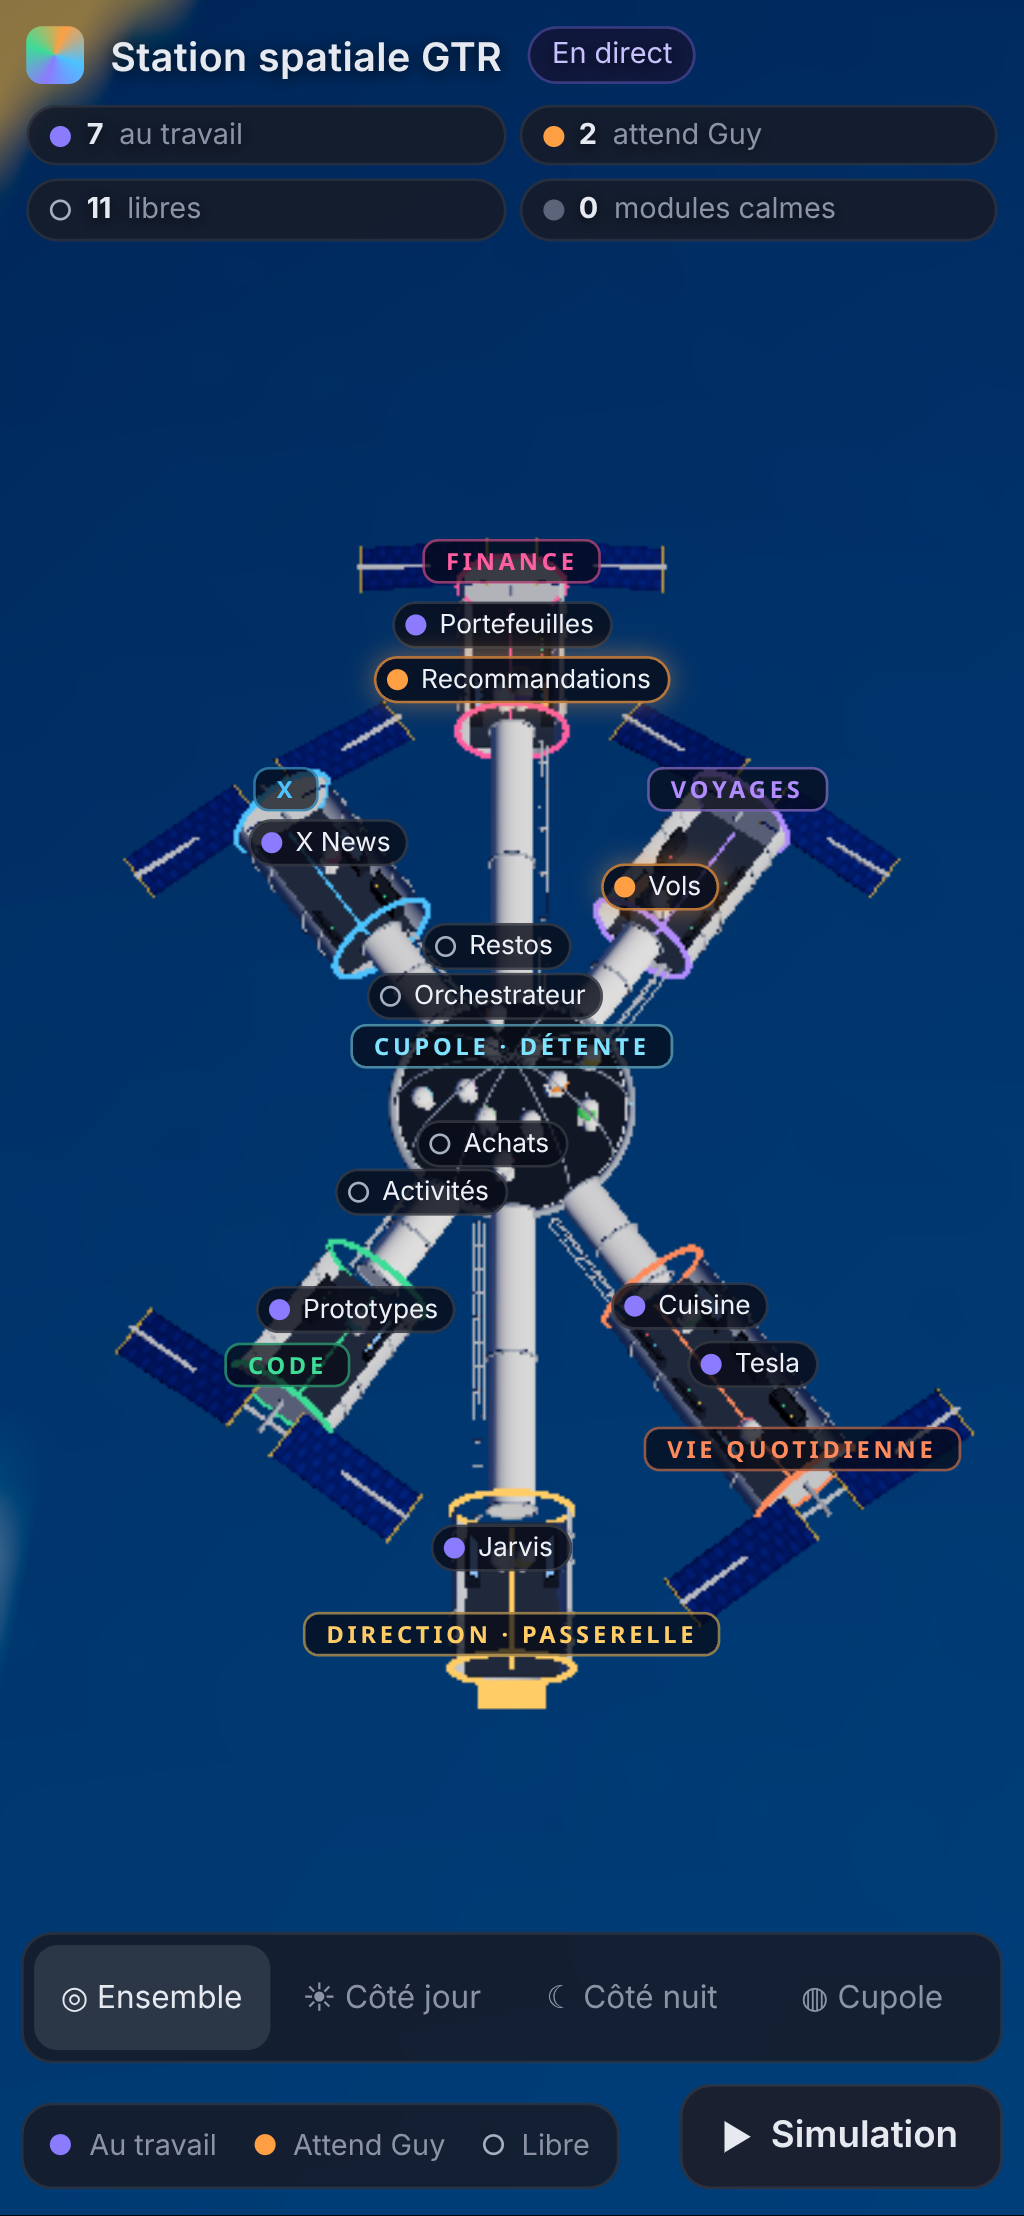
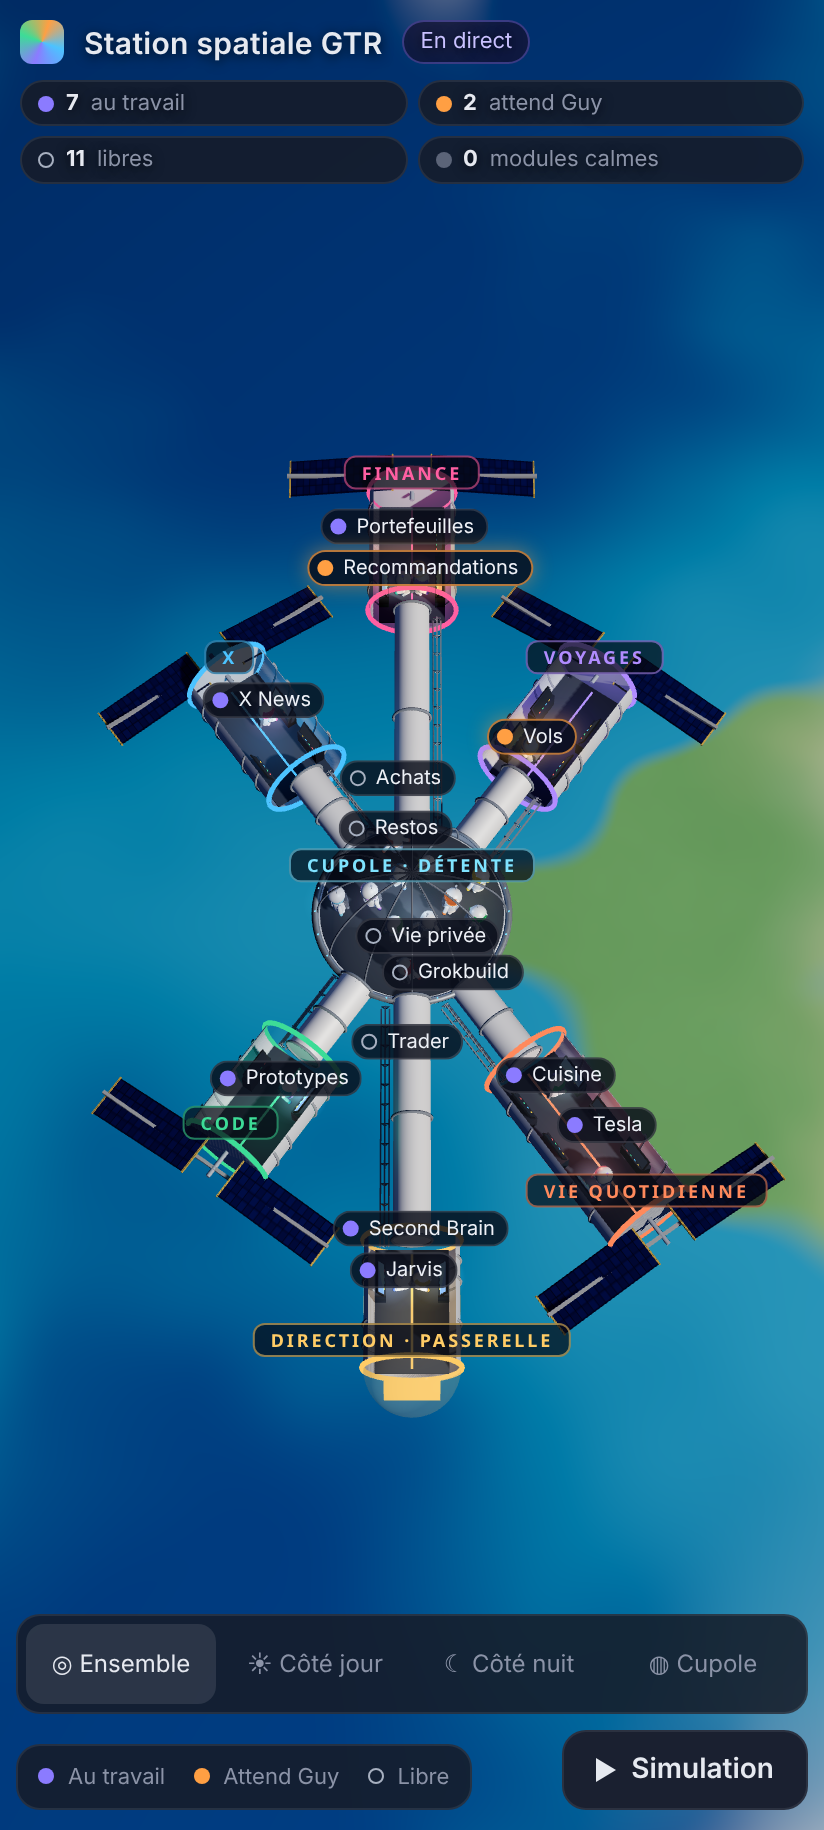
Version complète par défaut sur cell, lite après perte de contexte, repli 2D sans WebGL

diff --git a/secours2d.js b/secours2d.js
@@ -1,0 +1,152 @@
+// Vue 2D de secours (SVG) quand WebGL n'est pas disponible. Mêmes données, compteurs, panneaux et simulation.
+const INTERVALLE_MS = 60_000;
+const COUL_ETAT = { occupe: '#8b7bff', attend: '#ff9f43', libre: '#a7b0c0' };
+const NOM_ETAT = { occupe: 'Au travail', attend: 'Attend Guy', libre: 'Libre' };
+const COUL_EQUIPE = ['#ffcc66', '#3ddc97', '#4cc3ff', '#ff5fa2', '#b18cff', '#ff8a5c', '#e0e86b', '#5eead4'];
+const PALETTE = ['#4f7dff', '#ffd23f', '#ff7a2f', '#2ec4d6', '#34c759', '#c7ccd8', '#ff5fa2', '#9b6bff', '#00c2a8', '#ff4d4d', '#7bd389', '#f5a524', '#5ac8fa', '#c084fc', '#e2725b', '#4ade80', '#60a5fa', '#facc15', '#fb7185', '#a3e635', '#22d3ee', '#f97316'];
+const TACHES = ['Recherche', 'Veille', 'Analyse', 'Rédaction', 'Mise à jour'];
+const fmtHeure = new Intl.DateTimeFormat('fr-CA', { timeZone: 'America/Toronto', hour: '2-digit', minute: '2-digit', hourCycle: 'h23' });
+const NS = 'http://www.w3.org/2000/svg';
+const $ = (id) => document.getElementById(id);
+const scene = $('scene'), vue = document.querySelector('.vue');
+document.documentElement.dataset.mode = '2d';
+
+// Message (pas d'erreur bloquante)
+const avis = document.createElement('p'); avis.className = 'avis avis-2d';
+avis.textContent = '3D (WebGL) indisponible : Chrome l’a peut-être désactivée. Redémarrez Chrome ou essayez Edge. Vue 2D en attendant.';
+vue.append(avis);
+document.querySelectorAll('.vues button').forEach((b) => { b.disabled = true; b.title = 'Disponible avec la 3D'; });
+
+const svg = document.createElementNS(NS, 'svg'); svg.classList.add('plan2d'); svg.setAttribute('role', 'img');
+svg.setAttribute('aria-label', 'Plan 2D de la station : modules d’équipe autour de la cupole');
+scene.append(svg);
+
+const segments = (nom) => nom.split(/\s[·–-]\s/).map((x) => x.trim()).filter(Boolean);
+const nomCourt = (b, tous) => { if (b.court) return b.court; const s = segments(b.nom); return tous.filter((o) => segments(o.nom)[0] === s[0]).length > 1 && s[1] ? s[1] : s[0] || b.id; };
+const el = (tag, attrs = {}, parent) => { const e = document.createElementNS(NS, tag); for (const [k, v] of Object.entries(attrs)) e.setAttribute(k, v); parent && parent.append(e); return e; };
+
+let donnees = null, sim = null, ficheId = null;
+const activite = [];
+const etatDe = (b) => (b.etat in COUL_ETAT ? b.etat : 'libre');
+
+function dessiner() {
+  if (!donnees) return;
+  const bots = donnees.bots.filter((b) => b && b.id);
+  const portrait = scene.clientWidth < scene.clientHeight;
+  const W = portrait ? 400 : 800, H = portrait ? 560 : 470, cx = W / 2, cy = H / 2;
+  svg.setAttribute('viewBox', `0 0 ${W} ${H}`); svg.replaceChildren();
+  const equipes = [];
+  for (const b of bots) { const n = b.equipe || 'Module'; let e = equipes.find((x) => x.nom === n); if (!e) { e = { nom: n, bots: [], coul: COUL_EQUIPE[equipes.length % COUL_EQUIPE.length] }; equipes.push(e); } e.bots.push(b); }
+  const iDir = equipes.findIndex((e) => /^direction$/i.test(e.nom)); if (iDir > 0) equipes.unshift(...equipes.splice(iDir, 1));
+  const rx = portrait ? 118 : 285, ry = portrait ? 205 : 160, RH = portrait ? 58 : 66;
+  // étoiles
+  for (let i = 0; i < 70; i++) el('circle', { cx: (i * 97) % W, cy: (i * 61) % H, r: i % 7 ? 0.7 : 1.2, fill: '#fff', opacity: 0.25 + (i % 4) * 0.12 }, svg);
+  const tubes = el('g', {}, svg), mods = el('g', {}, svg);
+  const couleurs = new Map(bots.map((b, i) => [b.id, b.couleur || PALETTE[i % PALETTE.length]]));
+  equipes.forEach((e, i) => {
+    const a = Math.PI / 2 + (i / equipes.length) * Math.PI * 2;
+    const x = cx + Math.cos(a) * rx, y = cy + Math.sin(a) * ry;
+    el('line', { x1: cx, y1: cy, x2: x, y2: y, stroke: '#9aa6b8', 'stroke-width': 9, 'stroke-linecap': 'round', opacity: 0.55 }, tubes);
+    const actifs = e.bots.filter((b) => etatDe(b) !== 'libre');
+    const w = portrait ? 156 : 180, h = 30 + Math.max(1, actifs.length) * 17;
+    const g = el('g', { transform: `translate(${x - w / 2},${y - h / 2})` }, mods);
+    el('rect', { width: w, height: h, rx: 12, fill: '#141b2b', stroke: e.coul, 'stroke-width': 2 }, g);
+    el('rect', { x: -10, y: h / 2 - 9, width: 10, height: 18, rx: 3, fill: '#2a3550' }, g);
+    el('rect', { x: w, y: h / 2 - 9, width: 10, height: 18, rx: 3, fill: '#2a3550' }, g);
+    const t = el('text', { x: 10, y: 18, fill: e.coul, 'font-size': 10.5, 'font-weight': 700, 'letter-spacing': '1.5' }, g); t.textContent = e.nom.toUpperCase();
+    if (!actifs.length) { const v = el('text', { x: 10, y: 37, fill: '#8b93a7', 'font-size': 11 }, g); v.textContent = 'Module calme'; }
+    actifs.forEach((b, k) => {
+      const st = etatDe(b), yy = 34 + k * 17;
+      const r = el('g', { class: 'bot2d', 'data-id': b.id, tabindex: 0, role: 'button' }, g);
+      if (st === 'attend') el('circle', { cx: 16, cy: yy, r: 5, fill: 'none', stroke: COUL_ETAT.attend, class: 'pulse' }, r);
+      el('circle', { cx: 16, cy: yy, r: 5, fill: couleurs.get(b.id), stroke: COUL_ETAT[st], 'stroke-width': 2 }, r);
+      const n = el('text', { x: 27, y: yy + 4, fill: '#e6e9f0', 'font-size': 11.5 }, r); { const c = nomCourt(b, bots); n.textContent = c.length > 12 ? c.slice(0, 11) + '…' : c; }
+      const tt = el('text', { x: w - 8, y: yy + 4, fill: COUL_ETAT[st], 'font-size': 10, 'text-anchor': 'end' }, r); tt.textContent = st === 'attend' ? 'attend Guy' : (b.tache || '');
+    });
+  });
+  // cupole centrale avec les libres
+  const hub = el('g', {}, svg);
+  el('circle', { cx, cy, r: RH + 6, fill: 'none', stroke: '#7fe3ff', 'stroke-width': 1.5, opacity: 0.5 }, hub);
+  el('circle', { cx, cy, r: RH, fill: '#0f1a2c', stroke: '#9aa6b8', 'stroke-width': 3 }, hub);
+  const ht = el('text', { x: cx, y: cy - RH - 12, fill: '#7fe3ff', 'font-size': 10, 'font-weight': 700, 'text-anchor': 'middle', 'letter-spacing': '1.5' }, hub); ht.textContent = 'CUPOLE · DÉTENTE';
+  const libres = bots.filter((b) => etatDe(b) === 'libre');
+  libres.forEach((b, k) => {
+    const anneau = k < 8 ? 0 : 1, idx = anneau ? k - 8 : k, nb = anneau ? Math.max(1, libres.length - 8) : Math.min(8, libres.length);
+    const a = (idx / nb) * Math.PI * 2 + anneau * 0.4, r = anneau ? RH * 0.32 : RH * 0.7;
+    const g = el('g', { class: 'bot2d', 'data-id': b.id, tabindex: 0, role: 'button' }, hub);
+    el('circle', { cx: cx + Math.cos(a) * r, cy: cy + Math.sin(a) * r, r: 6.5, fill: couleurs.get(b.id), stroke: '#e6e9f0', 'stroke-width': 1.2 }, g);
+    const ti = el('title', {}, g); ti.textContent = nomCourt(b, bots) + ' · libre';
+  });
+  const nl = el('text', { x: cx, y: cy + RH + 20, fill: '#a7b0c0', 'font-size': 10.5, 'text-anchor': 'middle' }, hub); nl.textContent = `${libres.length} en pause`;
+  svg.querySelectorAll('.bot2d').forEach((g) => { const f = () => ouvrirFiche(g.dataset.id); g.addEventListener('click', f); g.addEventListener('keydown', (ev) => { if (ev.key === 'Enter') f(); }); });
+}
+
+function majInterface() {
+  const bots = donnees.bots; const c = { occupe: 0, attend: 0, libre: 0 };
+  for (const b of bots) c[etatDe(b)]++;
+  $('c-occupe').textContent = c.occupe; $('c-attend').textContent = c.attend; $('c-libre').textContent = c.libre;
+  const eq = new Map(); for (const b of bots) { const k = b.equipe || 'Module'; eq.set(k, (eq.get(k) || 0) + (etatDe(b) !== 'libre' ? 1 : 0)); }
+  $('c-bureaux').textContent = [...eq.values()].filter((v) => v === 0).length;
+  $('nb-bots').textContent = bots.length + ' bots';
+  const d = new Date(donnees.maj);
+  $('maj').textContent = sim ? 'Simulation' : isNaN(d) ? '' : 'maj ' + fmtHeure.format(d) + ' (Toronto)';
+  const ul = $('liste-equipe'); ul.replaceChildren();
+  bots.forEach((b, i) => {
+    const e = etatDe(b), li = document.createElement('li'); li.tabIndex = 0; li.setAttribute('role', 'button');
+    li.innerHTML = '<span class="av"></span><span class="nm"></span><span class="st"><span class="pt"></span><span class="et"></span></span><span class="tc"></span>';
+    li.querySelector('.av').style.background = b.couleur || PALETTE[i % PALETTE.length];
+    li.querySelector('.nm').textContent = nomCourt(b, bots);
+    const sm = document.createElement('small'); sm.textContent = b.equipe || ''; li.querySelector('.nm').append(sm);
+    li.querySelector('.pt').className = 'pt ' + e; li.querySelector('.et').textContent = NOM_ETAT[e];
+    li.querySelector('.tc').textContent = e === 'libre' ? 'En pause' : (b.tache || '—');
+    li.addEventListener('click', () => ouvrirFiche(b.id)); ul.append(li);
+  });
+  dessiner();
+  if (ficheId) ouvrirFiche(ficheId);
+}
+function rendreActivite() {
+  const ul = $('liste-activite'); ul.replaceChildren();
+  for (const a of activite) { const li = document.createElement('li'); const t = document.createElement('time'); const d = new Date(a.heure); t.textContent = isNaN(d) ? '' : fmtHeure.format(d); const s = document.createElement('span'); s.textContent = a.texte; li.append(t, s); ul.append(li); }
+}
+function appliquer(data, premier = false) {
+  const avant = donnees ? new Map(donnees.bots.map((b) => [b.id, etatDe(b)])) : null;
+  donnees = data;
+  if (premier && Array.isArray(data.activite)) { activite.length = 0; activite.push(...data.activite.slice(0, 14)); }
+  else if (avant) for (const b of data.bots) { const e = etatDe(b); if (avant.has(b.id) && avant.get(b.id) !== e) { const c = nomCourt(b, data.bots); activite.unshift({ heure: new Date().toISOString(), texte: e === 'occupe' ? `${c} : ${(b.tache || 'travail').toLowerCase()} en cours` : e === 'attend' ? `${c} attend une réponse de Guy` : `${c} rejoint la cupole` }); } }
+  activite.length = Math.min(activite.length, 14);
+  rendreActivite(); majInterface();
+}
+async function charger(premier = false) {
+  if (sim) return;
+  try { const r = await fetch('status.json?t=' + Date.now(), { cache: 'no-store' }); if (!r.ok) throw new Error('HTTP ' + r.status); appliquer(await r.json(), premier); $('erreur').hidden = true; }
+  catch { $('erreur').textContent = 'Statut introuvable pour l’instant, nouvel essai dans 1 min.'; $('erreur').hidden = false; }
+}
+function pasSim() {
+  if (!donnees) return; const data = structuredClone(donnees);
+  for (let k = 0; k < 2; k++) {
+    const b = data.bots[Math.floor(Math.random() * data.bots.length)], r = Math.random();
+    if (b.etat === 'libre') { b.etat = r < 0.85 ? 'occupe' : 'attend'; b.tache = b.etat === 'attend' ? 'Validation' : TACHES[Math.floor(Math.random() * TACHES.length)]; }
+    else if (b.etat === 'occupe') { b.etat = r < 0.7 ? 'libre' : 'attend'; b.tache = b.etat === 'attend' ? 'Validation' : ''; }
+    else { b.etat = 'occupe'; b.tache = TACHES[Math.floor(Math.random() * TACHES.length)]; }
+  }
+  appliquer(data);
+}
+const btnSim = $('btn-sim');
+btnSim.addEventListener('click', () => {
+  if (sim) { clearInterval(sim); sim = null; btnSim.querySelector('.lib').textContent = 'Simulation'; btnSim.setAttribute('aria-pressed', 'false'); $('badge-mode').textContent = 'En direct'; charger(); }
+  else { sim = setInterval(pasSim, 3500); pasSim(); btnSim.querySelector('.lib').textContent = 'Arrêter'; btnSim.setAttribute('aria-pressed', 'true'); $('badge-mode').textContent = 'Simulation'; }
+});
+function ouvrirFiche(id) {
+  const b = donnees.bots.find((x) => x.id === id); if (!b) return;
+  ficheId = id; const e = etatDe(b);
+  $('fiche-nom').textContent = b.nom; $('fiche-equipe').textContent = 'Module ' + (b.equipe || '—');
+  const et = $('fiche-etat'); et.innerHTML = '<span class="pt ' + e + '"></span>'; et.append(NOM_ETAT[e]);
+  $('fiche-tache').textContent = e === 'libre' ? 'En pause, dans la cupole' : 'Tâche : ' + (b.tache || '—');
+  $('fiche').hidden = false;
+}
+$('fiche-fermer').addEventListener('click', () => { ficheId = null; $('fiche').hidden = true; });
+new ResizeObserver(() => dessiner()).observe(scene);
+if (matchMedia('(max-width:860px)').matches) $('d-activite').open = false;
+charger(true);
+setInterval(() => charger(), INTERVALLE_MS);
+window.__bureau2d = { pasSim, donnees: () => donnees };

diff --git a/app.js b/app.js
@@ -23,7 +23,7 @@ const forme = () => (conteneur.clientWidth < conteneur.clientHeight * 0.9 ? 'por
 const params = new URLSearchParams(location.search);
 const mobile = matchMedia('(max-width:860px), (pointer:coarse)').matches;
 // Mode « lite » : téléphones / écrans tactiles, peu de mémoire, ou après une perte de contexte 3D
-const lite = params.get('lite') === '1' || (params.get('lite') !== '0' && (mobile || (navigator.deviceMemory && navigator.deviceMemory <= 4) || sessionStorage.getItem('gtr-lite') === '1'));
+const lite = params.get('lite') === '1' || (params.get('lite') !== '0' && sessionStorage.getItem('gtr-lite') === '1');
 document.documentElement.dataset.mode = lite ? 'lite' : 'complet';
 function avis(msg, duree = 0) {
   let el = document.getElementById('avis-3d');
@@ -35,8 +35,7 @@ let renderer;
 try {
   renderer = new THREE.WebGLRenderer(lite ? { antialias: false, powerPreference: 'low-power', alpha: false, stencil: false, depth: true } : { antialias: true, powerPreference: 'default' });
 } catch (e) {
-  avis('La 3D (WebGL) n’est pas disponible sur cet appareil. Les états restent visibles dans le panneau.');
-  throw e;
+  throw e; // le chargeur de index.html bascule sur la vue 2D
 }
 renderer.setPixelRatio(lite ? 1 : Math.min(devicePixelRatio, 2));
 renderer.setClearColor('#02030a', 1);
@@ -49,8 +48,13 @@ let echecsRestauration = 0, attenteRestauration = null, perdu = false;
 const extPerte = renderer.getContext().getExtension('WEBGL_lose_context');
 renderer.domElement.addEventListener('webglcontextlost', (e) => {
   e.preventDefault(); perdu = true; renderer.setAnimationLoop(null);
-  if (!lite) sessionStorage.setItem('gtr-lite', '1'); // prochaine visite : mode lite
   clearTimeout(attenteRestauration);
+  if (!lite) { // version complète perdue : on repart automatiquement en mode lite
+    sessionStorage.setItem('gtr-lite', '1');
+    avis('Contexte 3D perdu : passage au mode allégé…');
+    setTimeout(() => location.reload(), 1200);
+    return;
+  }
   const essayer = () => {
     if (!perdu) return;
     echecsRestauration++;

diff --git a/style.css b/style.css
@@ -89,3 +89,11 @@ summary .doux{font-weight:400;font-size:11px;margin-left:auto}
 .sim .ico{width:0;height:0;border-style:solid;border-width:6px 0 6px 10px;border-color:transparent transparent transparent #e6e9f0}
 .sim[aria-pressed=true] .ico{width:10px;height:10px;border:0;background:#e6e9f0;border-radius:2px}
 .vues button{-webkit-appearance:none;appearance:none}
+/* Vue 2D de secours */
+.plan2d{position:absolute;left:0;right:0;top:130px;width:100%;height:calc(100% - 210px)}
+.plan2d .bot2d{cursor:pointer}
+.plan2d .pulse{animation:pulse2d 1.4s ease-out infinite;transform-box:fill-box;transform-origin:center}
+@keyframes pulse2d{from{transform:scale(1);opacity:1}to{transform:scale(2.6);opacity:0}}
+.avis-2d{top:92px;max-width:min(560px,90%);font-size:12px;padding:6px 12px}
+.vues button:disabled{opacity:.4;cursor:not-allowed}
+@media (max-width:860px){ .plan2d{top:168px;height:calc(100% - 318px)} .avis-2d{top:112px} }

diff --git a/index.html b/index.html
@@ -63,6 +63,16 @@
     <p>Site réalisé par la GTR-Teams</p>
   </footer>
 </div>
-<script type="module" src="app.js"></script>
+<script type="module">
+// Choix du rendu : 3D si WebGL répond, sinon vue 2D (SVG) avec les mêmes données
+const q = new URLSearchParams(location.search);
+let ok = false;
+if (!q.has('sans3d')) {
+  try { const c = document.createElement('canvas'); const gl = c.getContext('webgl2') || c.getContext('webgl'); ok = !!gl; gl && gl.getExtension('WEBGL_lose_context')?.loseContext(); } catch { ok = false; }
+}
+const secours = () => import('./secours2d.js');
+if (ok) import('./app.js').catch((e) => { console.info('3D indisponible, vue 2D :', e && e.message); secours(); });
+else secours();
+</script>
 </body>
 </html>

diff --git a/README.md b/README.md
@@ -57,3 +57,7 @@ En ligne : https://guygtr.github.io/proto-bureau-bots/ (bouton **Simulation** po
 ---
 © GTR Technologies Inc. · Tous droits réservés.
 Site réalisé par la GTR-Teams
+
+## Repli
+- Version complète par défaut (ordi et cellulaire). Mode allégé : `?lite=1`, ou automatique après une perte du contexte 3D.
+- Sans WebGL (ex. Chrome qui a désactivé la 3D) : vue 2D (SVG) avec compteurs, panneaux et simulation. Forcer : `?sans3d=1`.
